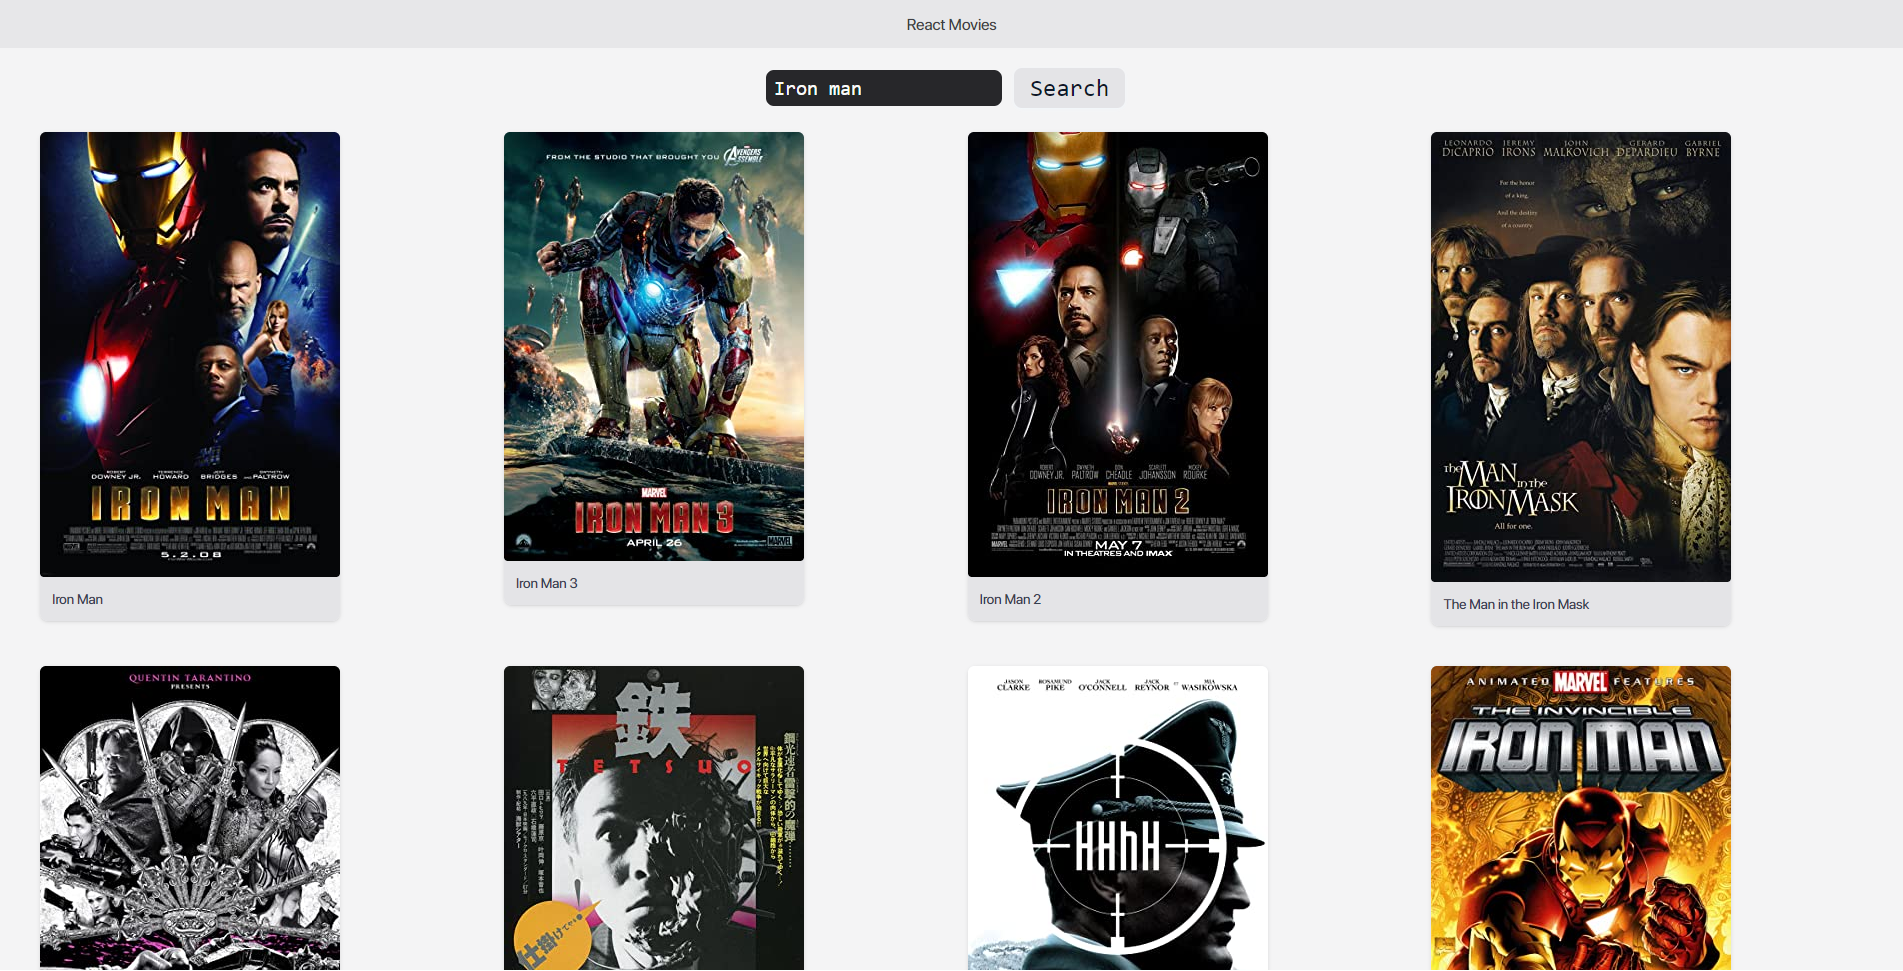
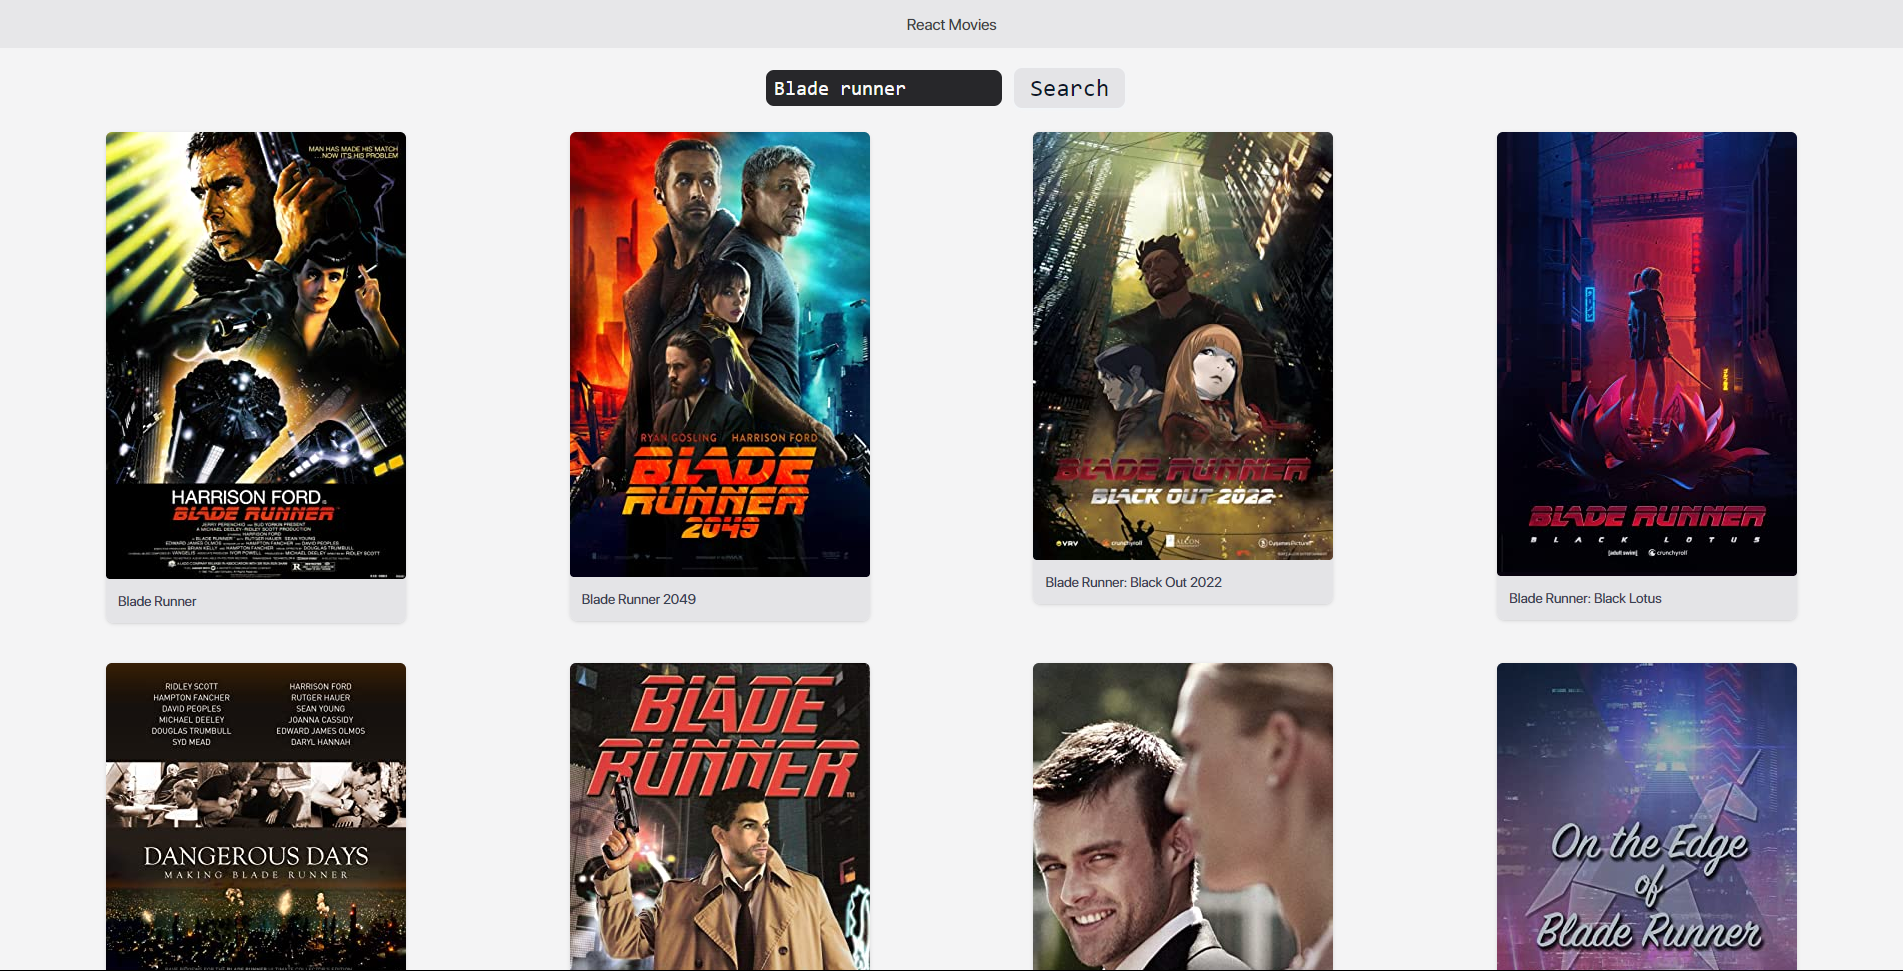
Upgrade styles

diff --git a/react-movie/src/App.jsx b/react-movie/src/App.jsx
@@ -32,7 +32,7 @@ class App extends React.Component {
             <section className='movie-app bg-zinc-100 py-5 px-10'>
                 <div className='flex items-center justify-center'>
                     <input
-                        className='font-mono text-xl text-zinc-50 bg-zinc-800 rounded-lg border-none py-1 px-2 focus-visible:outline focus-visible:outline-indigo-500 focus:outline-4 focus:border-none focus:shadow-none focus:ring-0 focus:outline-offset-0'
+                        className='font-mono text-xl text-zinc-50 bg-zinc-800 rounded-lg border-none py-1 px-2 focus-visible:outline focus-visible:outline-sky-500 focus:outline-4 focus:border-none focus:shadow-none focus:ring-0 focus:outline-offset-0'
                         onChange={e => this.handleChange(e)}
                         type='text'
                         name='movieName'
@@ -41,7 +41,7 @@ class App extends React.Component {
                     />
                     <button
                         onClick={this.fetchMovies}
-                        className="font-mono text-2xl bg-zinc-200 text-slate-900 mx-3 py-1 px-4 rounded-lg hover:rounded-xl shadow shadow-sky-50/50 transition-all duration-150  ease-in hover:shadow-sky-50/80 hover:bg-sky-200 active:shadow-none focus-visible:outline focus-visible:outline-indigo-500 outline-offset-0"
+                        className="font-mono text-2xl bg-zinc-200 text-slate-900 mx-3 py-1 px-4 rounded-lg hover:rounded-xl shadow shadow-sky-50/50 transition-all duration-150 ease-in hover:shadow-sky-50/80 hover:bg-sky-200 active:shadow-none focus-visible:outline focus-visible:outline-sky-500 outline-4 outline-offset-0"
                     >
                         Search
                     </button>

diff --git a/react-movie/src/components/List.jsx b/react-movie/src/components/List.jsx
@@ -2,7 +2,7 @@ import {Card} from './Card'
 
 export function List(props) {
     return (
-        <div className='mt-6 grid justify-center content-center grid-cols-1 gap-y-10 gap-x-6 sm:grid-cols-2 lg:grid-cols-4 xl:gap-x-8'>
+        <div className='mt-6 grid justify-items-center grid-cols-1 gap-y-10 gap-x-6 sm:grid-cols-2 lg:grid-cols-4 xl:gap-x-8'>
             {
                 props.cards.map(card => (
                     <Card id={card.imdbID} key={card.imdbID} name={card.Title} image={card.Poster}/>
